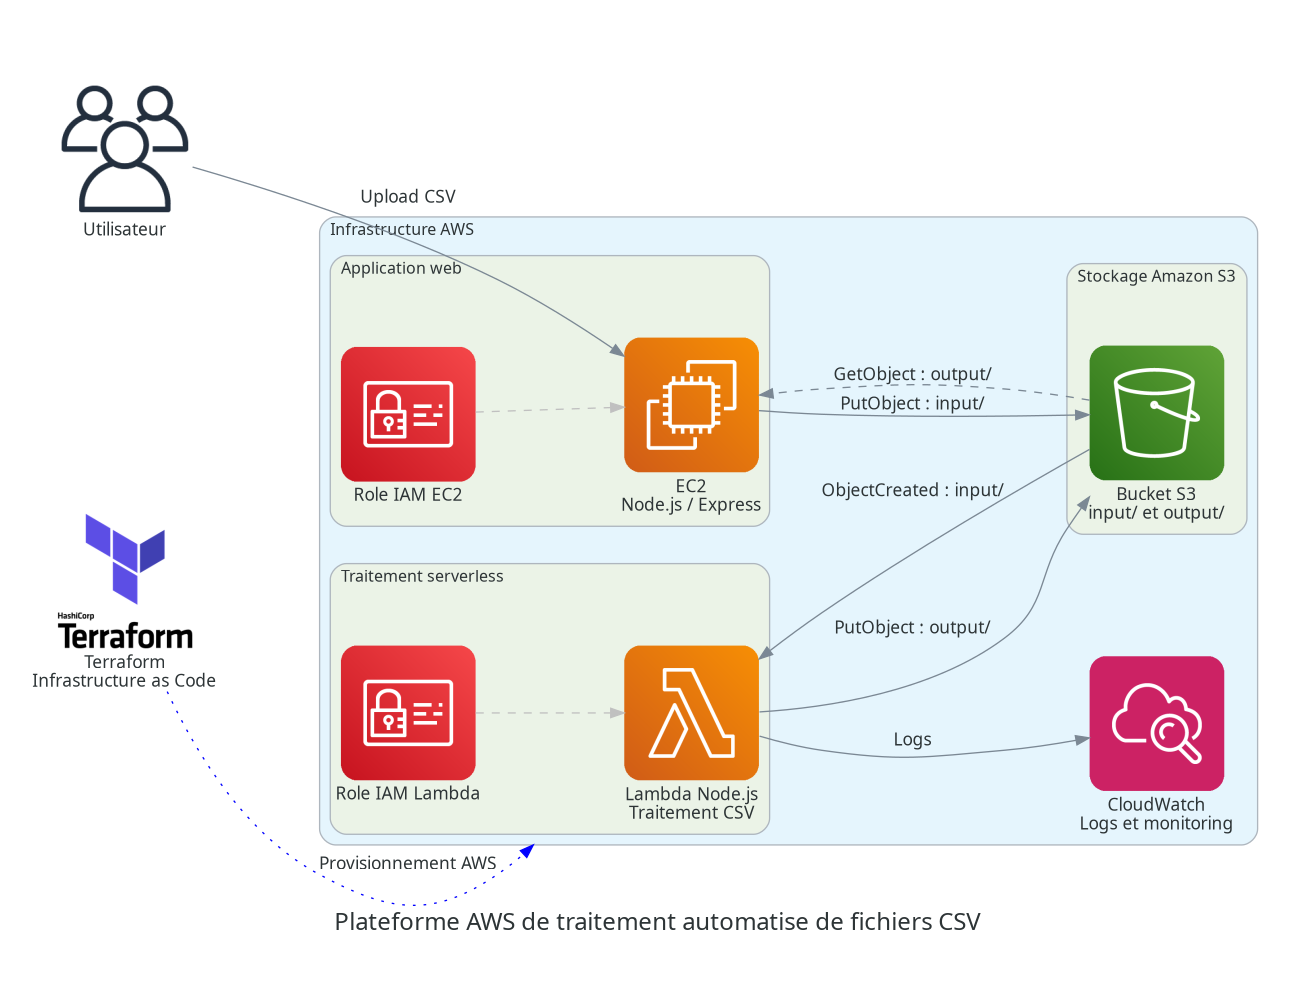
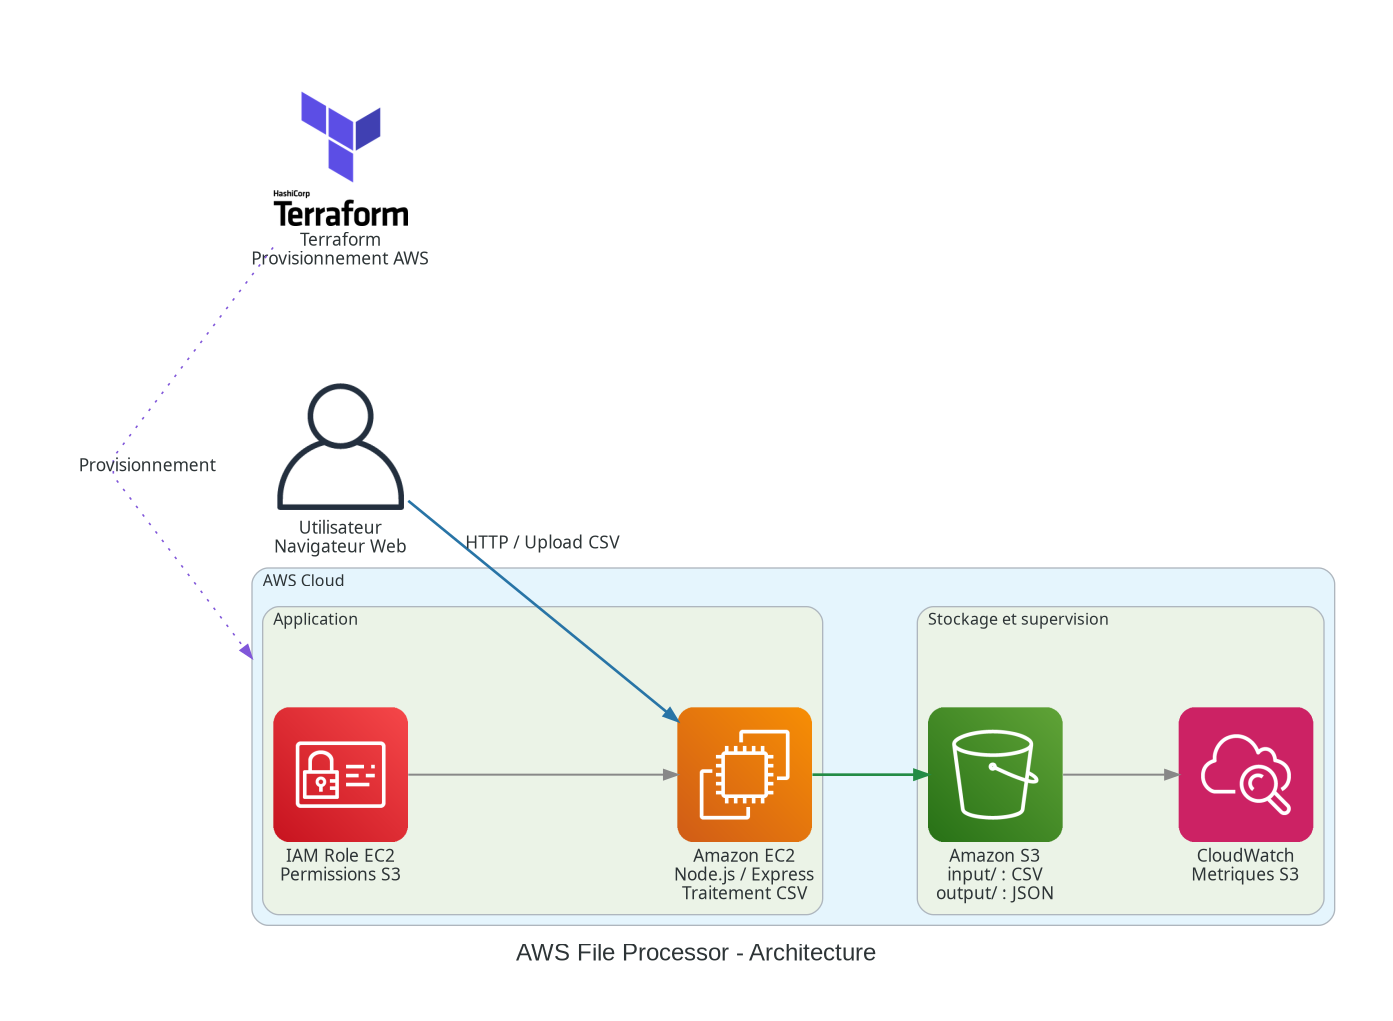
docs: adapter l'architecture AWS

diff --git a/docs/architecture.py b/docs/architecture.py
@@ -1,94 +1,96 @@
 
 from diagrams import Diagram, Cluster, Edge
-from diagrams.aws.compute import EC2, Lambda
+from diagrams.onprem.client import User
+from diagrams.onprem.iac import Terraform
+from diagrams.aws.compute import EC2
 from diagrams.aws.storage import S3
 from diagrams.aws.security import IAM
 from diagrams.aws.management import Cloudwatch
-from diagrams.onprem.client import Users
-from diagrams.onprem.iac import Terraform
 
 
 graph_attr = {
+    "rankdir": "LR",
+    "splines": "polyline",
+    "nodesep": "0.7",
+    "ranksep": "1.2",
+    "pad": "0.5",
+    "fontname": "Arial",
     "fontsize": "18",
-    "pad": "0.6",
-    "nodesep": "0.9",
-    "ranksep": "1.3",
-    "splines": "spline",
     "compound": "true",
 }
 
 with Diagram(
-    "Plateforme AWS de traitement automatise de fichiers CSV",
+    "AWS File Processor - Architecture",
     filename="docs/architecture",
     show=False,
-    direction="LR",
     outformat="png",
+    direction="LR",
     graph_attr=graph_attr,
 ):
 
-    user = Users("Utilisateur")
+    # Acteurs et outils externes
+    user = User("Utilisateur\nNavigateur Web")
+    terraform = Terraform("Terraform\nProvisionnement AWS")
 
-    with Cluster("Infrastructure AWS") as aws:
+    # Infrastructure AWS
+    with Cluster("AWS Cloud"):
 
-        with Cluster("Application web"):
-            ec2_role = IAM("Role IAM EC2")
-            ec2 = EC2("EC2\nNode.js / Express")
+        with Cluster("Application"):
+            iam = IAM(
+                "IAM Role EC2\n"
+                "Permissions S3"
+            )
 
-        with Cluster("Traitement serverless"):
-            lambda_role = IAM("Role IAM Lambda")
-            processor = Lambda("Lambda Node.js\nTraitement CSV")
+            ec2 = EC2(
+                "Amazon EC2\n"
+                "Node.js / Express\n"
+                "Traitement CSV"
+            )
 
-        with Cluster("Stockage Amazon S3"):
-            bucket = S3("Bucket S3\ninput/ et output/")
+        with Cluster("Stockage et supervision"):
+            s3 = S3(
+                "Amazon S3\n"
+                "input/ : CSV\n"
+                "output/ : JSON"
+            )
 
-        cloudwatch = Cloudwatch("CloudWatch\nLogs et monitoring")
+            cloudwatch = Cloudwatch(
+                "CloudWatch\n"
+                "Metriques S3"
+            )
 
-        # Permissions IAM
-        ec2_role >> Edge(
-            style="dashed",
-            color="gray"
+        # Permissions IAM pour EC2
+        iam >> Edge(
+            color="#888888",
+            penwidth="1.5"
         ) >> ec2
 
-        lambda_role >> Edge(
-            style="dashed",
-            color="gray"
-        ) >> processor
+        # Supervision du stockage S3
+        s3 >> Edge(
+            color="#888888",
+            penwidth="1.5"
+        ) >> cloudwatch
 
-    # Flux applicatif
+    # Flux utilisateur vers application
     user >> Edge(
-    label="Upload CSV",
-    labeldistance="2",
-    minlen="2"
+        label="HTTP / Upload CSV",
+        color="#2874A6",
+        penwidth="2"
     ) >> ec2
 
+    # Stockage CSV et JSON
     ec2 >> Edge(
-        label="PutObject : input/"
-    ) >> bucket
+        color="#238B45",
+        penwidth="2"
+    ) >> s3
 
-    bucket >> Edge(
-        label="ObjectCreated : input/"
-    ) >> processor
-
-    processor >> Edge(
-        label="PutObject : output/"
-    ) >> bucket
-
-    bucket >> Edge(
-        label="GetObject : output/",
-        style="dashed"
-    ) >> ec2
-
-    processor >> Edge(
-        label="Logs"
-    ) >> cloudwatch
-
-    # Terraform : une seule liaison vers le groupe AWS
-    terraform = Terraform("Terraform\nInfrastructure as Code")
-
+    # Provisionnement Terraform
+    # Liaison symbolique vers l'infrastructure AWS
     terraform >> Edge(
-        label="Provisionnement AWS",
+        label="Provisionnement",
+        color="#8056D9",
         style="dotted",
-        color="blue",
-        lhead=aws.name,
-        constraint="false"
-    ) >> ec2
+        penwidth="1.2",
+        constraint="false",
+        lhead="cluster_AWS Cloud"
+    ) >> iam
